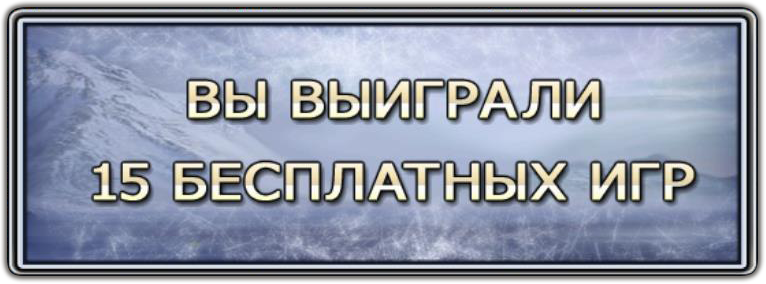
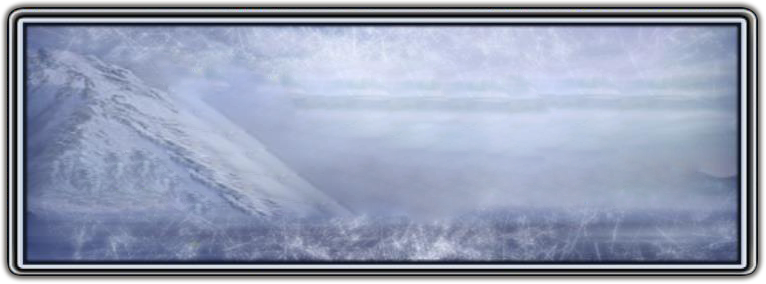
gamble icelegend

Changed region(s): [[0.0901, 0.5352, 0.9308, 0.7606], [0.2102, 0.2535, 0.8107, 0.4507]]

diff --git a/resources/assets/sass/divslot/games/icelegend.scss b/resources/assets/sass/divslot/games/icelegend.scss
@@ -3,8 +3,18 @@
 
 .alert .content {
     background: url('../img/games/icelegend/images/freeSpinBg.png');
-    width: 541px;
-    height: 497px;
+    width: 758px;
+    height: 284px;
+    font-size: 44px;
+    color: #fff0c6;
+    font-weight: 600;
+    text-align: center;
+    text-transform: uppercase;
+    display: flex;
+    justify-content: center;
+    align-items: center;
+    box-sizing: border-box;
+    text-shadow: -3px -3px 3px #000, 3px 3px 3px #000, -3px 3px 3px #000, 3px -3px 3px #000;
 }
 .main {
     background: url('../img/games/icelegend/game_bg.png') center center;
@@ -18,7 +28,6 @@
 
 .line_presenter {
     background-image: url('../img/line_presenter_glare.png');
-
     background-size: 100% 100%;
     font-size: 32px;
     width: 53px;
@@ -40,4 +49,7 @@
 }
 .gamble {
     background: url('../img/games/icelegend/gamble/gamble_bg.png');
+    top: 153px;
+    width: 1365px;
+    height: 674px;
 }

diff --git a/resources/assets/sass/divslot/games/bananas.scss b/resources/assets/sass/divslot/games/bananas.scss
@@ -5,6 +5,16 @@
     background: url('../img/games/bananas/images/freeSpinBg.png');
     width: 541px;
     height: 497px;
+    font-size: 44px;
+    color: #8400a6;
+    font-weight: 600;
+    text-align: center;
+    text-transform: uppercase;
+    display: flex;
+    justify-content: center;
+    align-items: center;
+    box-sizing: border-box;
+    padding: 200px 120px 100px 120px;
 }
 .main {
     background: url('../img/games/bananas/game_bg.png') center center;
@@ -34,17 +44,4 @@
 .gamble {
     width: 1273px;
     background: url('../img/games/bananas/gamble/gamble_bg.png');
-}
-.alert .content {
-    font-size: 44px;
-    color: #8400a6;
-    font-weight: 600;
-    text-align: center;
-    text-transform: uppercase;
-    display: flex;
-    justify-content: center;
-    align-items: center;
-    box-sizing: border-box;
-    padding: 200px 120px 100px 120px;
-
 }
